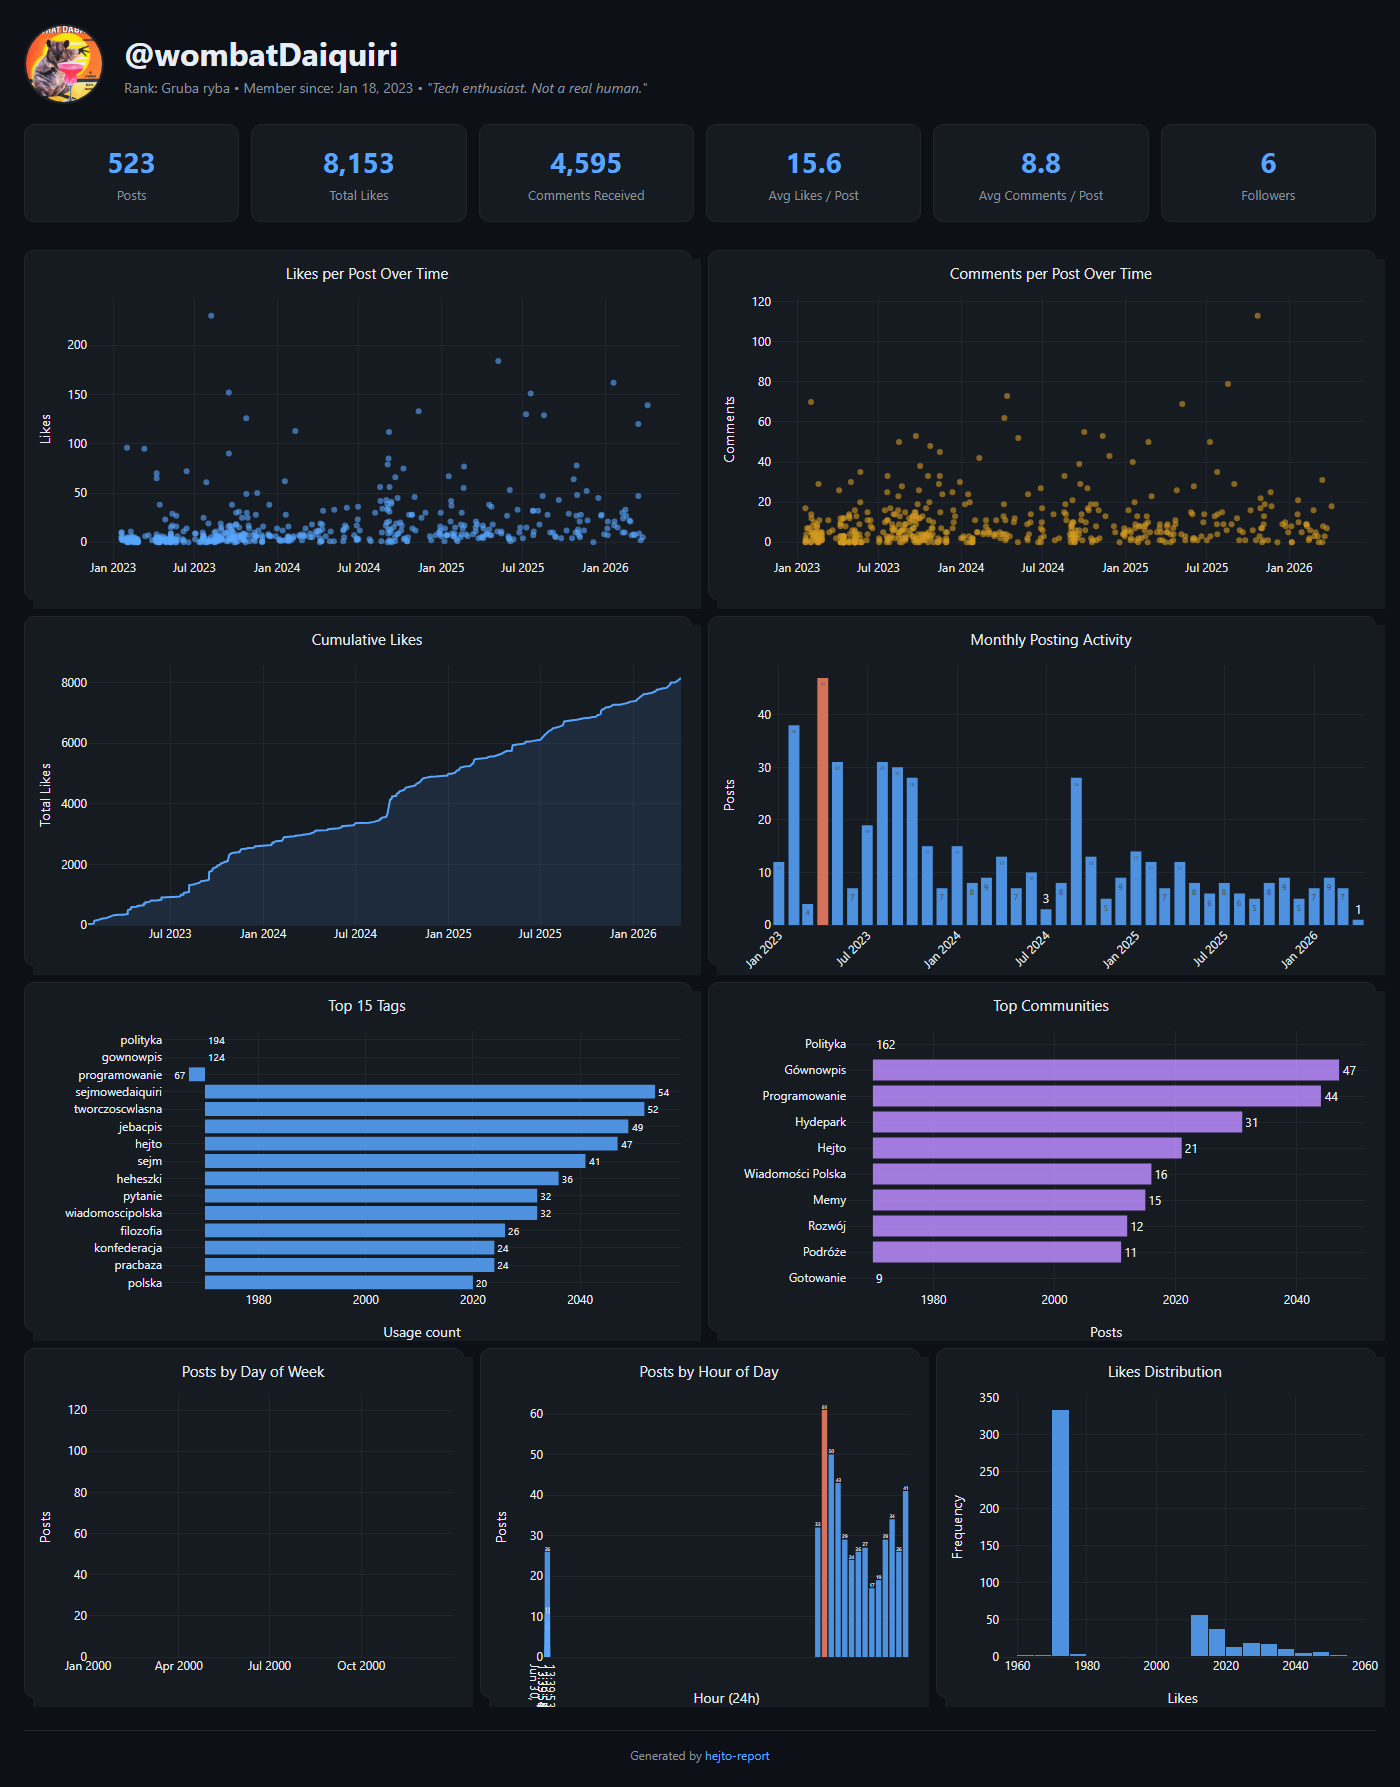
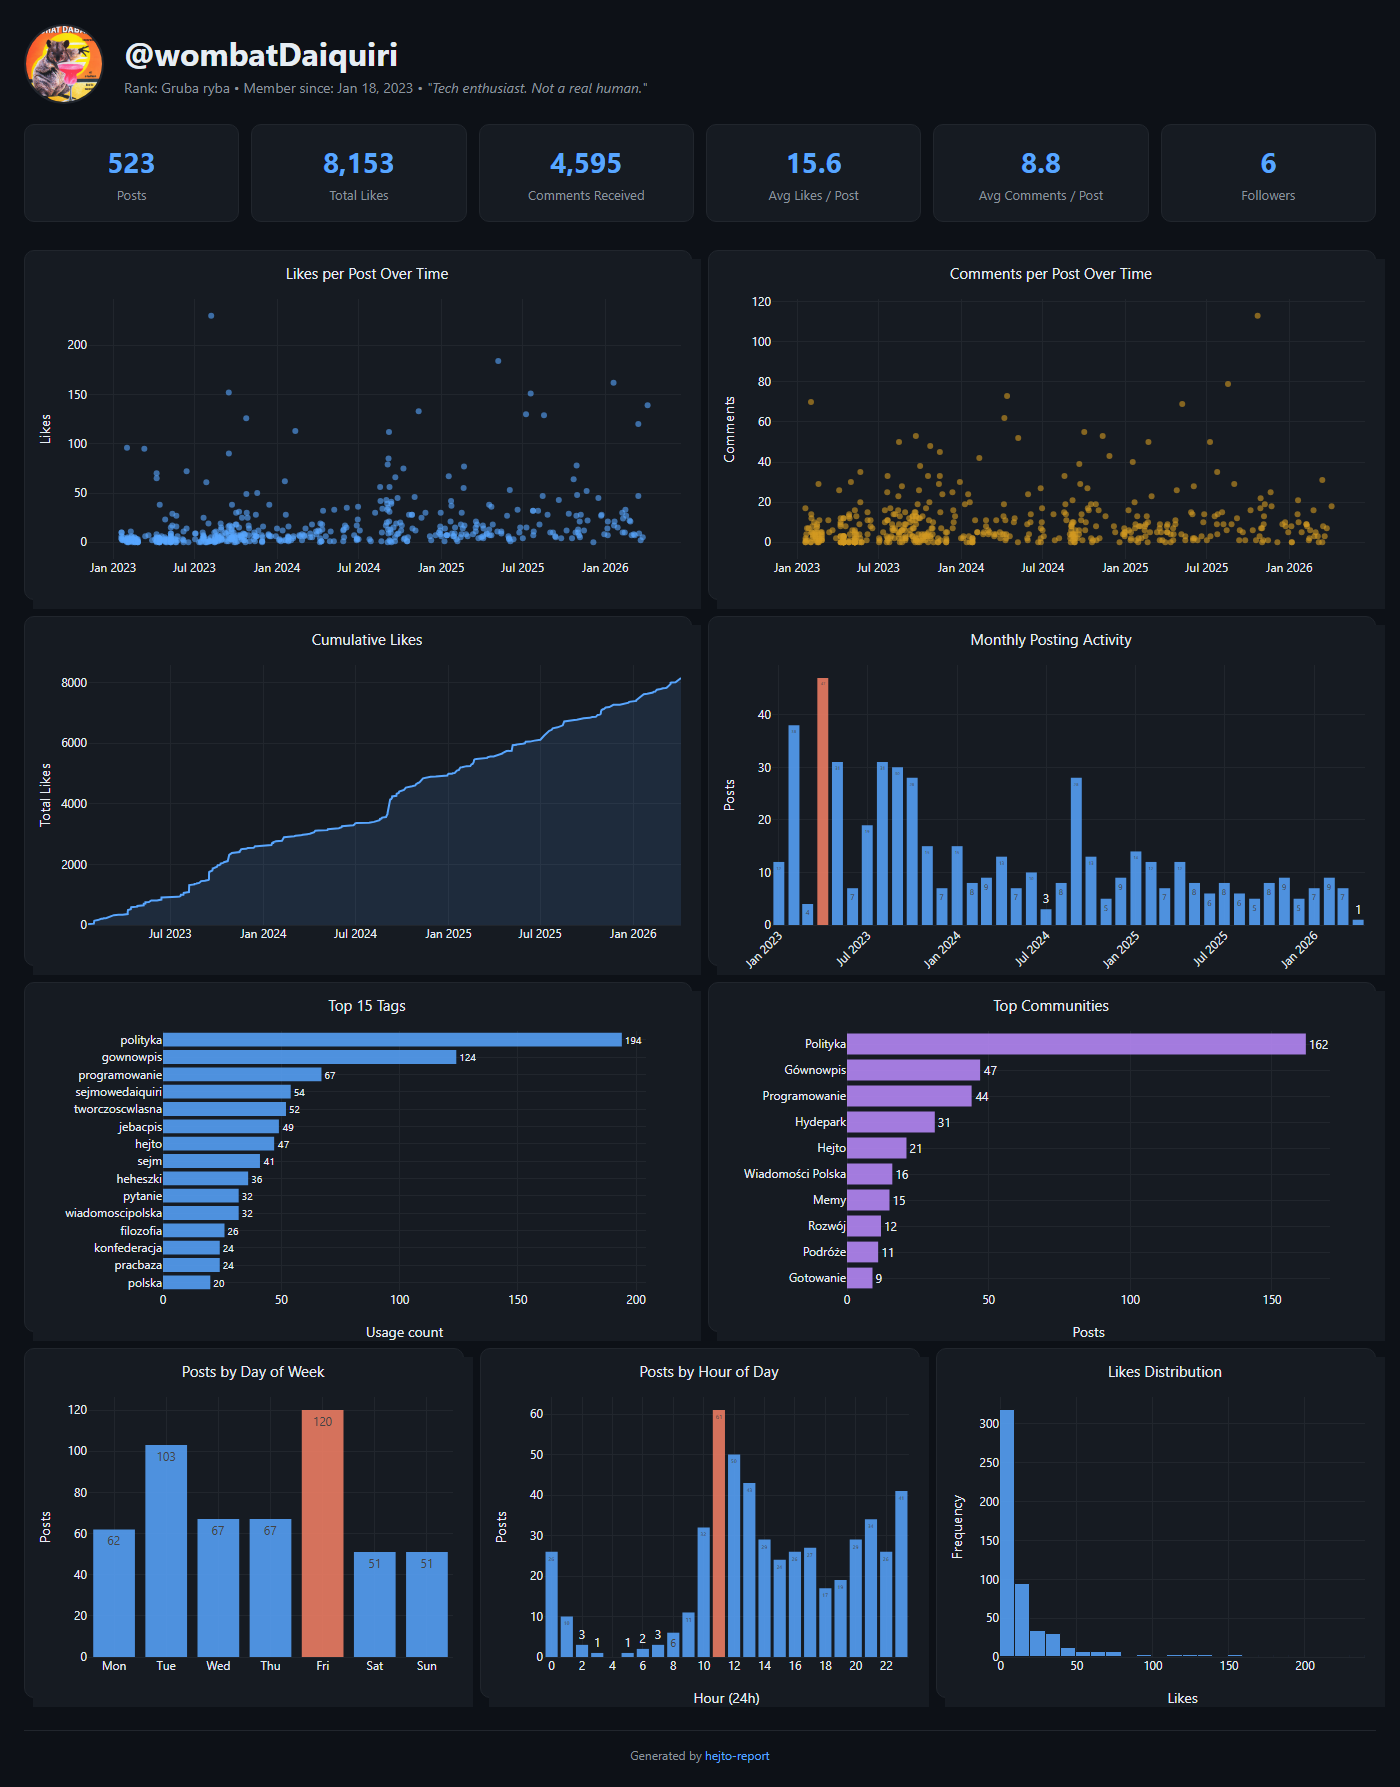
fix the x-axis labeling

diff --git a/example_report.html b/example_report.html
@@ -343,9 +343,9 @@ Plotly.newPlot('tags', [{
 }], {
   ...layout,
   title: { text: 'Top 15 Tags', font: { size: 15 } },
-  xaxis: { ...layout.xaxis, title: 'Usage count' },
+  xaxis: { ...layout.xaxis, title: 'Usage count', type: 'linear' },
   yaxis: { ...layout.yaxis, categoryorder: 'array', categoryarray: D.tag_names },
-  margin: { ...layout.margin, l: 130 },
+  margin: { ...layout.margin, l: 130, r: 55 },
 }, config);
 
 // Top communities
@@ -360,9 +360,9 @@ Plotly.newPlot('communities', [{
 }], {
   ...layout,
   title: { text: 'Top Communities', font: { size: 15 } },
-  xaxis: { ...layout.xaxis, title: 'Posts' },
+  xaxis: { ...layout.xaxis, title: 'Posts', type: 'linear' },
   yaxis: { ...layout.yaxis, categoryorder: 'array', categoryarray: D.comm_names },
-  margin: { ...layout.margin, l: 130 },
+  margin: { ...layout.margin, l: 130, r: 55 },
 }, config);
 
 // Weekday
@@ -376,6 +376,7 @@ Plotly.newPlot('weekday', [{
 }], {
   ...layout,
   title: { text: 'Posts by Day of Week', font: { size: 15 } },
+  xaxis: { ...layout.xaxis, type: 'category' },
   yaxis: { ...layout.yaxis, title: 'Posts' },
 }, config);
 
@@ -390,7 +391,7 @@ Plotly.newPlot('hourly', [{
 }], {
   ...layout,
   title: { text: 'Posts by Hour of Day', font: { size: 15 } },
-  xaxis: { ...layout.xaxis, title: 'Hour (24h)', dtick: 2 },
+  xaxis: { ...layout.xaxis, title: 'Hour (24h)', type: 'linear', dtick: 2 },
   yaxis: { ...layout.yaxis, title: 'Posts' },
 }, config);
 
@@ -404,7 +405,7 @@ Plotly.newPlot('likes-dist', [{
 }], {
   ...layout,
   title: { text: 'Likes Distribution', font: { size: 15 } },
-  xaxis: { ...layout.xaxis, title: 'Likes' },
+  xaxis: { ...layout.xaxis, title: 'Likes', type: 'linear' },
   yaxis: { ...layout.yaxis, title: 'Frequency' },
 }, config);
 </script>

diff --git a/report.html b/report.html
@@ -343,9 +343,9 @@ Plotly.newPlot('tags', [{
 }], {
   ...layout,
   title: { text: 'Top 15 Tags', font: { size: 15 } },
-  xaxis: { ...layout.xaxis, title: 'Usage count' },
+  xaxis: { ...layout.xaxis, title: 'Usage count', type: 'linear' },
   yaxis: { ...layout.yaxis, categoryorder: 'array', categoryarray: D.tag_names },
-  margin: { ...layout.margin, l: 130 },
+  margin: { ...layout.margin, l: 130, r: 55 },
 }, config);
 
 // Top communities
@@ -360,9 +360,9 @@ Plotly.newPlot('communities', [{
 }], {
   ...layout,
   title: { text: 'Top Communities', font: { size: 15 } },
-  xaxis: { ...layout.xaxis, title: 'Posts' },
+  xaxis: { ...layout.xaxis, title: 'Posts', type: 'linear' },
   yaxis: { ...layout.yaxis, categoryorder: 'array', categoryarray: D.comm_names },
-  margin: { ...layout.margin, l: 130 },
+  margin: { ...layout.margin, l: 130, r: 55 },
 }, config);
 
 // Weekday
@@ -376,6 +376,7 @@ Plotly.newPlot('weekday', [{
 }], {
   ...layout,
   title: { text: 'Posts by Day of Week', font: { size: 15 } },
+  xaxis: { ...layout.xaxis, type: 'category' },
   yaxis: { ...layout.yaxis, title: 'Posts' },
 }, config);
 
@@ -390,7 +391,7 @@ Plotly.newPlot('hourly', [{
 }], {
   ...layout,
   title: { text: 'Posts by Hour of Day', font: { size: 15 } },
-  xaxis: { ...layout.xaxis, title: 'Hour (24h)', dtick: 2 },
+  xaxis: { ...layout.xaxis, title: 'Hour (24h)', type: 'linear', dtick: 2 },
   yaxis: { ...layout.yaxis, title: 'Posts' },
 }, config);
 
@@ -404,7 +405,7 @@ Plotly.newPlot('likes-dist', [{
 }], {
   ...layout,
   title: { text: 'Likes Distribution', font: { size: 15 } },
-  xaxis: { ...layout.xaxis, title: 'Likes' },
+  xaxis: { ...layout.xaxis, title: 'Likes', type: 'linear' },
   yaxis: { ...layout.yaxis, title: 'Frequency' },
 }, config);
 </script>

diff --git a/report_html.py b/report_html.py
@@ -505,9 +505,9 @@ Plotly.newPlot('tags', [{{
 }}], {{
   ...layout,
   title: {{ text: 'Top 15 Tags', font: {{ size: 15 }} }},
-  xaxis: {{ ...layout.xaxis, title: 'Usage count' }},
+  xaxis: {{ ...layout.xaxis, title: 'Usage count', type: 'linear' }},
   yaxis: {{ ...layout.yaxis, categoryorder: 'array', categoryarray: D.tag_names }},
-  margin: {{ ...layout.margin, l: 130 }},
+  margin: {{ ...layout.margin, l: 130, r: 55 }},
 }}, config);
 
 // Top communities
@@ -522,9 +522,9 @@ Plotly.newPlot('communities', [{{
 }}], {{
   ...layout,
   title: {{ text: 'Top Communities', font: {{ size: 15 }} }},
-  xaxis: {{ ...layout.xaxis, title: 'Posts' }},
+  xaxis: {{ ...layout.xaxis, title: 'Posts', type: 'linear' }},
   yaxis: {{ ...layout.yaxis, categoryorder: 'array', categoryarray: D.comm_names }},
-  margin: {{ ...layout.margin, l: 130 }},
+  margin: {{ ...layout.margin, l: 130, r: 55 }},
 }}, config);
 
 // Weekday
@@ -538,6 +538,7 @@ Plotly.newPlot('weekday', [{{
 }}], {{
   ...layout,
   title: {{ text: 'Posts by Day of Week', font: {{ size: 15 }} }},
+  xaxis: {{ ...layout.xaxis, type: 'category' }},
   yaxis: {{ ...layout.yaxis, title: 'Posts' }},
 }}, config);
 
@@ -552,7 +553,7 @@ Plotly.newPlot('hourly', [{{
 }}], {{
   ...layout,
   title: {{ text: 'Posts by Hour of Day', font: {{ size: 15 }} }},
-  xaxis: {{ ...layout.xaxis, title: 'Hour (24h)', dtick: 2 }},
+  xaxis: {{ ...layout.xaxis, title: 'Hour (24h)', type: 'linear', dtick: 2 }},
   yaxis: {{ ...layout.yaxis, title: 'Posts' }},
 }}, config);
 
@@ -566,7 +567,7 @@ Plotly.newPlot('likes-dist', [{{
 }}], {{
   ...layout,
   title: {{ text: 'Likes Distribution', font: {{ size: 15 }} }},
-  xaxis: {{ ...layout.xaxis, title: 'Likes' }},
+  xaxis: {{ ...layout.xaxis, title: 'Likes', type: 'linear' }},
   yaxis: {{ ...layout.yaxis, title: 'Frequency' }},
 }}, config);
 </script>
